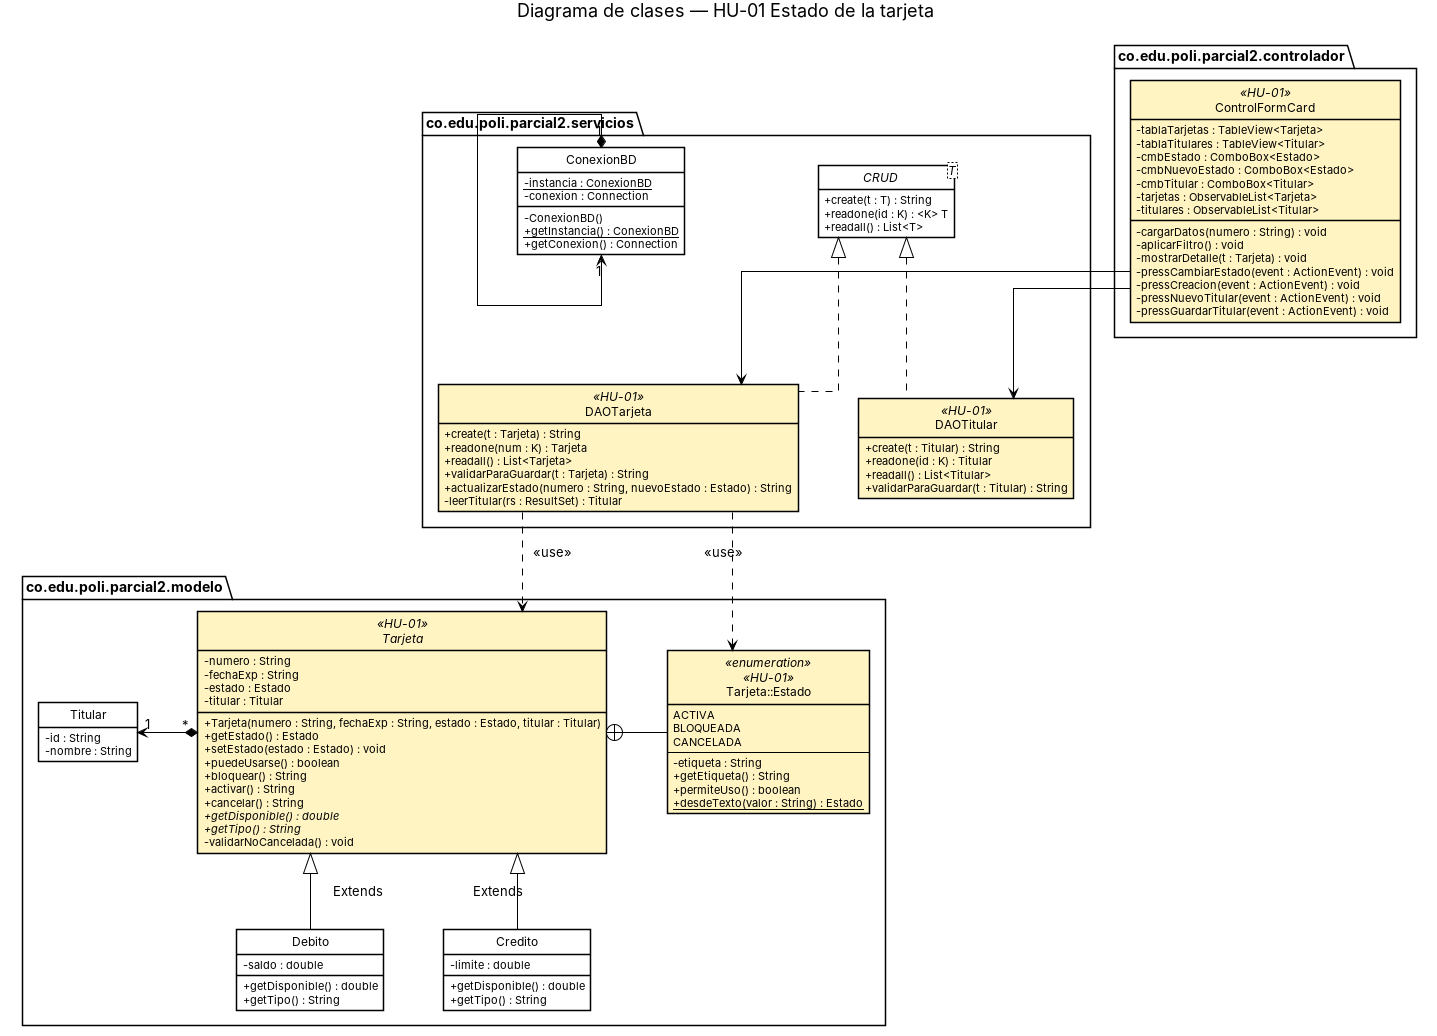
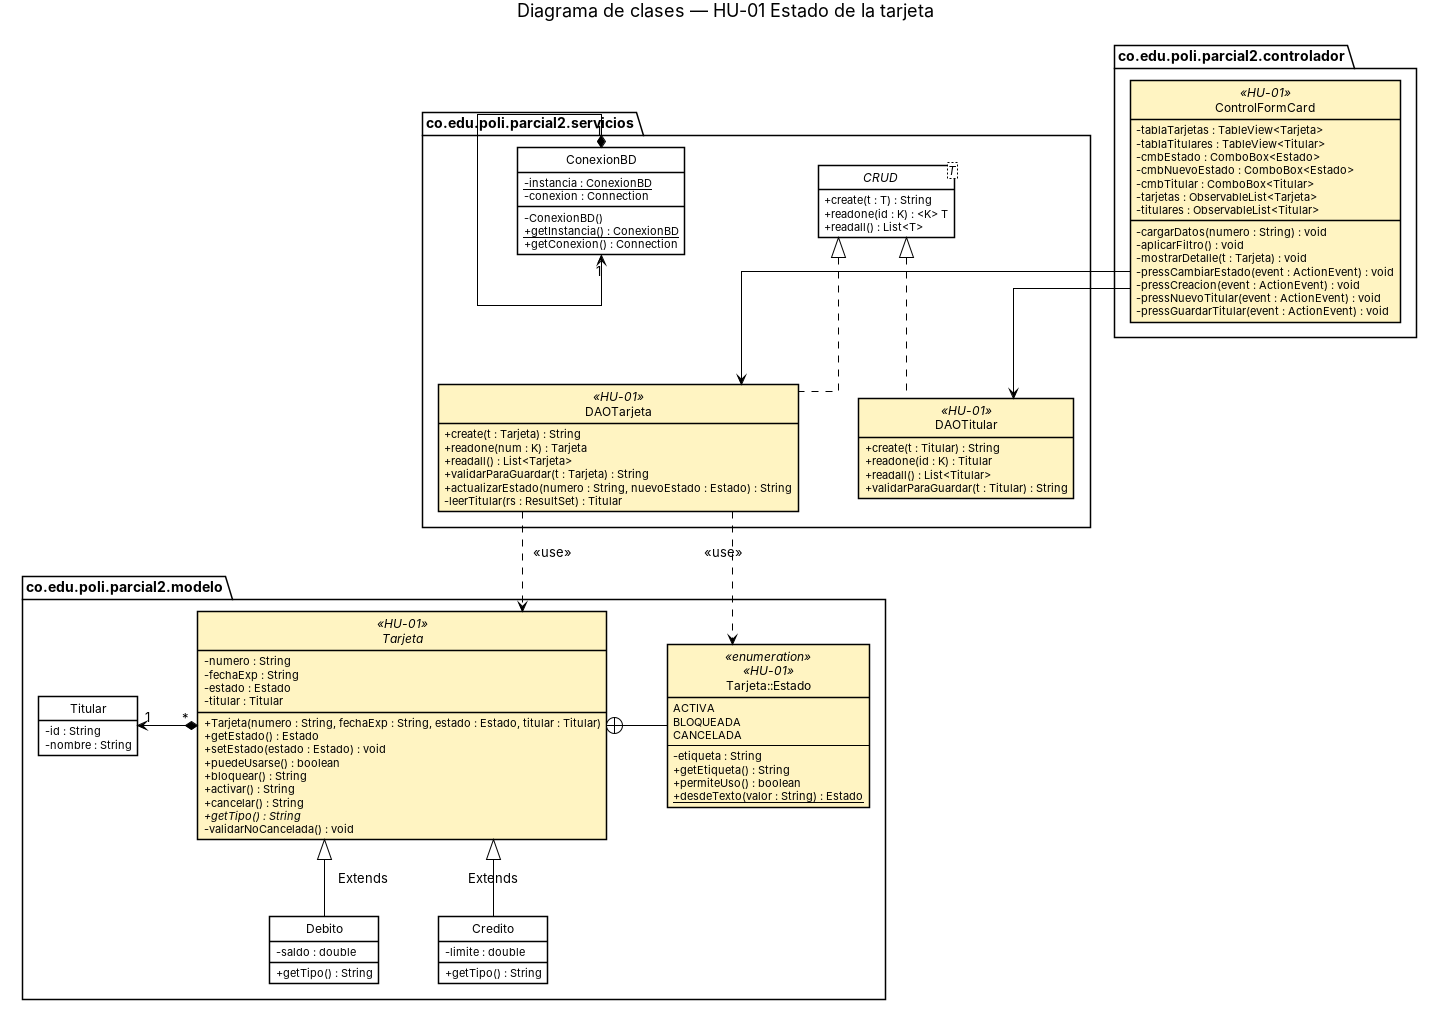
Quitar saldo y limite de la interfaz (no los pide la HU-01)
Claude-Session: https://claude.ai/code/session_01KVwrBwjVY88Fi9JeFJdRMi

diff --git a/parcial2/src/main/resources/co/edu/poli/parcial2/estilos.css b/parcial2/src/main/resources/co/edu/poli/parcial2/estilos.css
@@ -232,10 +232,6 @@
     -fx-font-family: "Ubuntu Mono", "DejaVu Sans Mono", monospace;
     -fx-font-size: 13px;
 }
-.celda-dinero {
-    -fx-alignment: CENTER_RIGHT;
-    -fx-padding: 0 14 0 6;
-}
 .table-view .placeholder .label {
     -fx-text-fill: -c-suave;
 }

diff --git a/parcial2/src/main/java/co/edu/poli/parcial2/controlador/ControlFormCard.java b/parcial2/src/main/java/co/edu/poli/parcial2/controlador/ControlFormCard.java
@@ -1,13 +1,10 @@
 package co.edu.poli.parcial2.controlador;
 
-import java.text.DecimalFormat;
-import java.text.DecimalFormatSymbols;
 import java.time.LocalDate;
 import java.time.format.DateTimeFormatter;
 import java.time.format.DateTimeParseException;
 import java.util.HashMap;
 import java.util.List;
-import java.util.Locale;
 import java.util.Map;
 import java.util.function.UnaryOperator;
 
@@ -75,9 +72,6 @@ public class ControlFormCard {
 	/** Texto de la opción del filtro que muestra todos los estados. */
 	private static final String TODOS_LOS_ESTADOS = "Todos los estados";
 
-	/** Formato de moneda colombiana sin decimales, p. ej. {@code $ 1.500.000}. */
-	private static final DecimalFormat FORMATO_DINERO = new DecimalFormat("$ #,##0",
-			DecimalFormatSymbols.getInstance(Locale.forLanguageTag("es-CO")));
 
 	// ---------- Encabezado y mensajes ----------
 	@FXML
@@ -117,8 +111,6 @@ public class ControlFormCard {
 	@FXML
 	private TableColumn<Tarjeta, Estado> colEstado;
 	@FXML
-	private TableColumn<Tarjeta, Number> colDisponible;
-	@FXML
 	private Label lblSinSeleccion;
 	@FXML
 	private VBox panelDetalle;
@@ -134,10 +126,6 @@ public class ControlFormCard {
 	private Label lblFechaVisual;
 	@FXML
 	private Label lblEstadoDetalle;
-	@FXML
-	private Label lblDisponibleTitulo;
-	@FXML
-	private Label lblDisponibleDetalle;
 	/** Estado que se asignará a la tarjeta seleccionada (HU-01). */
 	@FXML
 	private ComboBox<Estado> cmbNuevoEstado;
@@ -153,10 +141,6 @@ public class ControlFormCard {
 	private RadioButton radio2; // Crédito
 	@FXML
 	private ToggleGroup tipo;
-	@FXML
-	private Label lblMontoInicial;
-	@FXML
-	private TextField txtMontoInicial;
 	@FXML
 	private ComboBox<Titular> cmbTitular;
 	/** Estado obligatorio de la tarjeta a crear (HU-01). */
@@ -249,15 +233,6 @@ public class ControlFormCard {
 			}
 		});
 
-		colDisponible.setCellValueFactory(c -> new ReadOnlyObjectWrapper<>(c.getValue().getDisponible()));
-		colDisponible.getStyleClass().add("celda-dinero");
-		colDisponible.setCellFactory(col -> new TableCell<Tarjeta, Number>() {
-			@Override
-			protected void updateItem(Number valor, boolean vacio) {
-				super.updateItem(valor, vacio);
-				setText(vacio || valor == null ? null : FORMATO_DINERO.format(valor.doubleValue()));
-			}
-		});
 
 		tarjetasFiltradas = new FilteredList<>(tarjetas, t -> true);
 		SortedList<Tarjeta> ordenadas = new SortedList<>(tarjetasFiltradas);
@@ -312,12 +287,8 @@ public class ControlFormCard {
 		datepk1.setValue(LocalDate.now());
 
 		txtNumero.setTextFormatter(new TextFormatter<>(soloDigitos(20)));
-		txtMontoInicial.setTextFormatter(new TextFormatter<>(soloDecimales()));
 		txtIdTitular.setTextFormatter(new TextFormatter<>(soloAlfanumerico(50)));
 
-		// El valor inicial es saldo (débito) o límite (crédito)
-		tipo.selectedToggleProperty().addListener((obs, a, b) -> lblMontoInicial
-				.setText(radio2.isSelected() ? "Límite de crédito *" : "Saldo inicial *"));
 
 		// HU-01: no se preselecciona estado para obligar a elegirlo
 		cmbEstado.getItems().setAll(Estado.values());
@@ -438,8 +409,6 @@ public class ControlFormCard {
 		lblFechaVisual.setText(t.getFechaExp());
 
 		pintarInsignia(lblEstadoDetalle, t.getEstado());
-		lblDisponibleTitulo.setText(t instanceof Debito ? "Saldo" : "Límite de crédito");
-		lblDisponibleDetalle.setText(FORMATO_DINERO.format(t.getDisponible()));
 	}
 
 	/**
@@ -504,7 +473,7 @@ public class ControlFormCard {
 
 	/**
 	 * Crea una tarjeta débito o crédito con los datos del formulario.
-	 * Valida número, fecha, valor inicial, titular y estado (HU-01).
+	 * Valida número, fecha, titular y estado (HU-01).
 	 *
 	 * @param event evento del botón "Guardar tarjeta"
 	 */
@@ -521,10 +490,6 @@ public class ControlFormCard {
 			marcarError(datepk1, "Seleccione la fecha de expedición.");
 			return;
 		}
-		Double monto = leerMonto(txtMontoInicial);
-		if (monto == null) {
-			monto = 0.0;
-		}
 		Titular titular = cmbTitular.getValue();
 		if (titular == null) {
 			marcarError(cmbTitular, "Seleccione un titular o cree uno con \"+ Nuevo\".");
@@ -537,8 +502,10 @@ public class ControlFormCard {
 		}
 
 		String fechaExp = datepk1.getValue().format(FORMATO_FECHA);
-		Tarjeta nueva = radio1.isSelected() ? new Debito(numero, fechaExp, estado, titular, monto)
-				: new Credito(numero, fechaExp, estado, titular, monto);
+		// Saldo y límite no hacen parte de la HU-01: se usan los valores por
+		// defecto del proyecto base (débito sin saldo, crédito con límite fijo).
+		Tarjeta nueva = radio1.isSelected() ? new Debito(numero, fechaExp, estado, titular, 0.0)
+				: new Credito(numero, fechaExp, estado, titular, 1000000);
 
 		try {
 			String resultado = daoTarjeta.create(nueva);
@@ -698,24 +665,6 @@ public class ControlFormCard {
 	}
 
 	/**
-	 * Lee un valor monetario de un campo de texto.
-	 *
-	 * @param campo campo con el valor
-	 * @return el valor, o {@code null} si está vacío o no es válido
-	 */
-	private Double leerMonto(TextField campo) {
-		String texto = campo.getText() == null ? "" : campo.getText().trim().replace(",", ".");
-		if (texto.isEmpty()) {
-			return null;
-		}
-		try {
-			return Double.parseDouble(texto);
-		} catch (NumberFormatException e) {
-			return null;
-		}
-	}
-
-	/**
 	 * Filtro de entrada que solo acepta dígitos, con una longitud máxima.
 	 *
 	 * @param max cantidad máxima de caracteres
@@ -733,15 +682,6 @@ public class ControlFormCard {
 	 */
 	private UnaryOperator<TextFormatter.Change> soloAlfanumerico(int max) {
 		return c -> c.getControlNewText().matches("[A-Za-z0-9-]{0," + max + "}") ? c : null;
-	}
-
-	/**
-	 * Filtro de entrada que acepta números con hasta dos decimales.
-	 *
-	 * @return filtro para un {@link TextFormatter}
-	 */
-	private UnaryOperator<TextFormatter.Change> soloDecimales() {
-		return c -> c.getControlNewText().matches("\\d{0,12}([.,]\\d{0,2})?") ? c : null;
 	}
 
 	/**
@@ -772,7 +712,6 @@ public class ControlFormCard {
 	private void limpiarFormCrear() {
 		limpiarErrores();
 		txtNumero.clear();
-		txtMontoInicial.clear();
 		datepk1.setValue(LocalDate.now());
 		cmbTitular.setValue(null);
 		cmbEstado.setValue(null);

diff --git a/parcial2/src/main/java/co/edu/poli/parcial2/modelo/Tarjeta.java b/parcial2/src/main/java/co/edu/poli/parcial2/modelo/Tarjeta.java
@@ -183,7 +183,7 @@ public abstract class Tarjeta {
 	 * @param estado nuevo estado (obligatorio)
 	 * @throws IllegalArgumentException si {@code estado} es {@code null}
 	 */
-	public void setEstado(Estado estado) {
+	public final void setEstado(Estado estado) {
 		if (estado == null) {
 			throw new IllegalArgumentException("El estado de la tarjeta es obligatorio.");
 		}
@@ -246,14 +246,6 @@ public abstract class Tarjeta {
 		this.estado = Estado.CANCELADA;
 		return "Tarjeta " + numero + " CANCELADA.";
 	}
-
-	/**
-	 * Valor monetario de la tarjeta que se muestra en la tabla: saldo en
-	 * débito, límite en crédito.
-	 *
-	 * @return saldo o límite
-	 */
-	public abstract double getDisponible();
 
 	/**
 	 * Nombre del tipo de tarjeta para mostrar en la interfaz.

diff --git a/parcial2/src/test/java/co/edu/poli/parcial2/tests/unitaria/TestTarjeta.java b/parcial2/src/test/java/co/edu/poli/parcial2/tests/unitaria/TestTarjeta.java
@@ -121,14 +121,12 @@ public class TestTarjeta {
 	}
 
 	@Test
-	void tipoYValor_dependenDeLaSubclase() {
+	void tipo_dependeDeLaSubclase() {
 		Tarjeta d = new Debito("1", "25/12/2025", Estado.ACTIVA, titular, 1500);
 		Tarjeta c = new Credito("2", "25/12/2025", Estado.ACTIVA, titular, 9000);
 
 		assertEquals("Débito", d.getTipo());
 		assertEquals("Crédito", c.getTipo());
-		assertEquals(1500, d.getDisponible());
-		assertEquals(9000, c.getDisponible());
 	}
 
 	/** Criterio: el estado se visualiza (el formulario muestra toString()). */

diff --git a/parcial2/src/test/java/co/edu/poli/parcial2/tests/integracion/TestDAOTarjeta.java b/parcial2/src/test/java/co/edu/poli/parcial2/tests/integracion/TestDAOTarjeta.java
@@ -132,7 +132,7 @@ public class TestDAOTarjeta {
 		assertTrue(c instanceof Credito);
 		assertEquals(Estado.BLOQUEADA, d.getEstado());
 		assertEquals(Estado.ACTIVA, c.getEstado());
-		assertEquals(700.0, d.getDisponible());
+		assertEquals(700.0, ((Debito) d).getSaldo());
 		assertEquals("T001", c.getTitular().getId());
 	}
 

diff --git a/parcial2/src/main/java/co/edu/poli/parcial2/modelo/Credito.java b/parcial2/src/main/java/co/edu/poli/parcial2/modelo/Credito.java
@@ -42,14 +42,6 @@ public class Credito extends Tarjeta {
 	}
 
 	/**
-	 * @return límite de crédito
-	 */
-	@Override
-	public double getDisponible() {
-		return limite;
-	}
-
-	/**
 	 * @return "Crédito"
 	 */
 	@Override

diff --git a/parcial2/src/main/java/co/edu/poli/parcial2/modelo/Debito.java b/parcial2/src/main/java/co/edu/poli/parcial2/modelo/Debito.java
@@ -42,14 +42,6 @@ public class Debito extends Tarjeta {
 	}
 
 	/**
-	 * @return saldo disponible
-	 */
-	@Override
-	public double getDisponible() {
-		return saldo;
-	}
-
-	/**
 	 * @return "Débito"
 	 */
 	@Override

diff --git a/README.md b/README.md
@@ -4,7 +4,7 @@ Aplicación de escritorio en **JavaFX** con persistencia en **MySQL** para regis
 
 **Funcionalidades:**
 
-- Listado de **todas las tarjetas** con su estado en color, búsqueda por número o titular y filtro por estado.
+- Listado de **todas las tarjetas** con su tipo, titular y estado en color, búsqueda por número o titular y filtro por estado.
 - Panel de **detalle** de la tarjeta seleccionada, desde donde se le **asigna un nuevo estado**.
 - Registro de **tarjetas** con estado y titular obligatorios.
 - Registro de **titulares**, desde su propia pestaña o con el botón *+ Nuevo* del formulario de tarjeta.
@@ -171,9 +171,9 @@ Se genera en `parcial2/target/site/apidocs/index.html`.
 
 ## Mejoras adicionales a la HU-01
 
-- **Listado de tarjetas:** `DAOTarjeta.readall()` trae todas las tarjetas con su titular, tipo, estado y saldo o límite en una sola consulta (`LEFT JOIN` a las tablas de débito y crédito). Ya no hace falta buscar por número.
+- **Listado de tarjetas:** `DAOTarjeta.readall()` trae todas las tarjetas con su titular, tipo y estado en una sola consulta (`LEFT JOIN` a las tablas de débito y crédito). Ya no hace falta buscar por número.
 - **Titulares:** `DAOTitular.create()` y `readone()` permiten registrar titulares; se valida identificación y nombre, y se informa si la identificación ya existe.
-- **Formulario de tarjeta:** se puede indicar el saldo inicial (débito) o el límite (crédito); antes eran valores fijos.
+- **Saldo y límite:** no los pide la HU-01, así que no se muestran ni se piden en la interfaz. Las clases `Debito` y `Credito` y sus tablas los conservan tal como venían en el proyecto base (débito con saldo 0 y crédito con límite fijo de $1.000.000).
 - **Diseño:** hoja de estilos `estilos.css`, ventana redimensionable, insignias de color por estado y mensajes en la barra inferior.
 
 ## Otros cambios realizados
